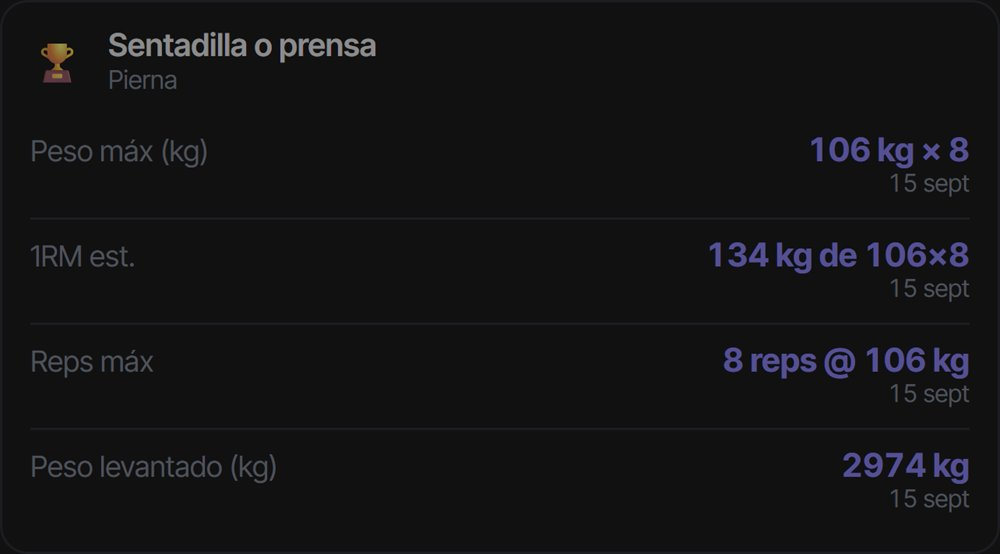
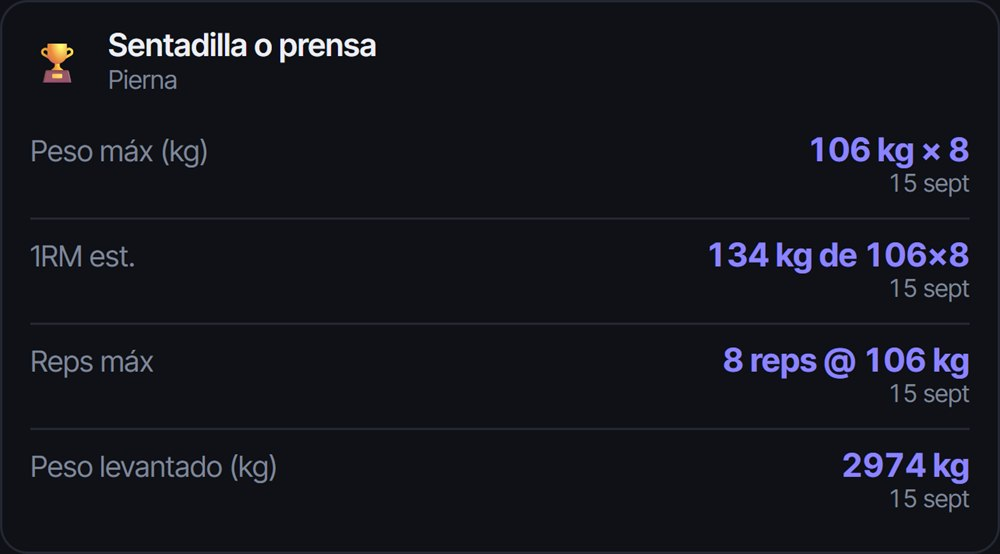
Presentación: pasos apilados que entran desde la derecha, y capturas sin velo · v2.25.0 (build-153)
Las capturas salían apagadas TODAS porque el guion de captura borraba el
diálogo (.modal) pero dejaba puesto el velo (.modal-overlay), que es un
rgba(20,18,14,.45) sobre toda la pantalla. Se quitaba el modal y quedaba la
sombra. Regeneradas sin él.

El efecto horizontal se rehace copiando el apilado de renterus.com: tarjetas
hermanas con position:sticky y top escalonado, que no absorben scroll. La
diferencia es que la que llega entra desde la derecha en vez de desde abajo.
Entra en la primera mitad del tramo y reposa en la segunda, para que dé
tiempo a leerla entera antes de que la siguiente la tape.

diff --git a/index.html b/index.html
@@ -161,30 +161,19 @@
   html.has-profile #appShell { display: block; }
   html.has-profile #landing { display: none; }
 
-  /* Entrada de la presentación al ir bajando. El estado oculto se aplica ya en el
-     primer pintado (por eso está aquí y no en styles.css) para que no haya parpadeo.
-     El movimiento es LATERAL: texto e imagen entran por lados opuestos y se paran
-     enteros. Nada queda cortado y no hay nada que deslizar a mano. */
+  /* Entrada de los bloques normales al ir bajando. El estado oculto se aplica ya en
+     el primer pintado (por eso está aquí y no en styles.css) para que no parpadee.
+     Las tarjetas apiladas NO usan esto: las mueve el apilado (initStack en app.js). */
   html.js-reveal #landing .ld-sec,
-  html.js-reveal #landing .ld-step,
   html.js-reveal #landing .ld-band,
   html.js-reveal #landing .ld-final { opacity: 0; transition: opacity .5s ease; }
   html.js-reveal #landing .in { opacity: 1; }
 
-  html.js-reveal #landing .ld-step .ld-step-copy,
-  html.js-reveal #landing .ld-step .ld-ui,
   html.js-reveal #landing .ld-band .ld-bcard,
   html.js-reveal #landing .ld-band .ld-chips span {
     transform: translateX(-46px);
-    transition: transform .7s cubic-bezier(.22,.61,.36,1), opacity .5s ease;
+    transition: transform .7s cubic-bezier(.22,.61,.36,1);
   }
-  html.js-reveal #landing .ld-step .ld-ui { transform: translateX(46px); }
-  html.js-reveal #landing .ld-step.rev .ld-step-copy { transform: translateX(46px); }
-  html.js-reveal #landing .ld-step.rev .ld-ui { transform: translateX(-46px); }
-  /* OJO: esto tiene que pesar al menos tanto como las reglas de .rev de arriba,
-     o los bloques invertidos se quedarían desplazados para siempre. */
-  html.js-reveal #landing .ld-step.in .ld-step-copy,
-  html.js-reveal #landing .ld-step.in .ld-ui,
   html.js-reveal #landing .ld-band.in .ld-bcard,
   html.js-reveal #landing .ld-band.in .ld-chips span { transform: none; }
   /* Escalonado: entran una detrás de otra, no todas de golpe. */
@@ -819,51 +808,44 @@
     </div>
   </section>
 
-  <!-- Cuatro bloques con un trozo real de la app, alternando lado en pantalla ancha.
-       Se leen porque son recortes ampliados, no pantallas enteras en miniatura. -->
-  <section class="ld-step">
-    <div class="ld-step-copy">
-      <span class="ld-num">01</span>
-      <h2>Tu semana, de un vistazo</h2>
-      <p>Abres la app y ves qué toca: el grupo del día, si va fuerte o ligero y cuánto vas a tardar. Cero decisiones antes de empezar.</p>
-    </div>
-    <figure class="ld-ui">
-      <img data-par="22" src="ui-semana.jpg" width="1000" height="928" loading="lazy" decoding="async" alt="Tres días del plan en Traindía: lunes de empuje, martes de pierna y miércoles de tirón, con su intensidad y duración">
-    </figure>
-  </section>
-
-  <section class="ld-step rev">
-    <div class="ld-step-copy">
-      <span class="ld-num">02</span>
-      <h2>Apuntar sin cortar el ritmo</h2>
-      <p>Serie hecha, un toque. Y encima de cada ejercicio, lo que levantaste la última vez: ya sabes a qué aspiras sin pararte a pensar.</p>
-    </div>
-    <figure class="ld-ui">
-      <img data-par="22" src="ui-entreno.jpg" width="1000" height="1030" loading="lazy" decoding="async" alt="Entreno en marcha: cronómetro a 31:33 y el press banca con sus cuatro series marcadas y el registro de la última vez">
-    </figure>
-  </section>
-
-  <section class="ld-step">
-    <div class="ld-step-copy">
-      <span class="ld-num">03</span>
-      <h2>La gráfica no discute</h2>
-      <p>Tu racha de semanas, los entrenos que llevas y cómo se mueve tu peso corporal. Cuando dudes de si avanzas, míralo.</p>
-    </div>
-    <figure class="ld-ui">
-      <img data-par="22" src="ui-progreso.jpg" width="1000" height="1028" loading="lazy" decoding="async" alt="Progreso en Traindía: 12 semanas de racha, 53 entrenos y la gráfica del peso corporal bajando">
-    </figure>
-  </section>
-
-  <section class="ld-step rev">
-    <div class="ld-step-copy">
-      <span class="ld-num">04</span>
-      <h2>Cada récord, con su fecha</h2>
-      <p>Peso máximo, 1RM estimado, repeticiones y kilos totales levantados. Un ejercicio no es una sola cifra, y aquí no lo es.</p>
-    </div>
-    <figure class="ld-ui">
-      <img data-par="22" src="ui-records.jpg" width="1000" height="554" loading="lazy" decoding="async" alt="Récords de la sentadilla en Traindía: 106 kg por 8 repeticiones, 134 kg de 1RM estimado y 2974 kg levantados">
-    </figure>
-  </section>
+  <!-- Pasos apilados: cada tarjeta se ancla con position:sticky y la siguiente
+       entra DESDE LA DERECHA y se le monta encima. Nada se traga el scroll: la
+       página avanza a su ritmo (igual que el apilado vertical de renterus.com,
+       pero girado). Sin JS quedan apiladas en vertical, que también se entiende. -->
+  <div class="ld-stack">
+    <article class="ld-card">
+      <div class="ld-card-copy">
+        <span class="ld-num">01</span>
+        <h2>Tu semana, de un vistazo</h2>
+        <p>Abres la app y ves qué toca: el grupo del día, si va fuerte o ligero y cuánto vas a tardar. Cero decisiones antes de empezar.</p>
+      </div>
+      <figure class="ld-ui"><img src="ui-semana.jpg" width="1000" height="928" loading="lazy" decoding="async" alt="Tres días del plan en Traindía: lunes de empuje, martes de pierna y miércoles de tirón, con su intensidad y duración"></figure>
+    </article>
+    <article class="ld-card">
+      <div class="ld-card-copy">
+        <span class="ld-num">02</span>
+        <h2>Apuntar sin cortar el ritmo</h2>
+        <p>Serie hecha, un toque. Y encima de cada ejercicio, lo que levantaste la última vez: ya sabes a qué aspiras sin pararte a pensar.</p>
+      </div>
+      <figure class="ld-ui"><img src="ui-entreno.jpg" width="1000" height="1030" loading="lazy" decoding="async" alt="Entreno en marcha: cronómetro a 31:34 y el press banca con sus series y el registro de la última vez"></figure>
+    </article>
+    <article class="ld-card">
+      <div class="ld-card-copy">
+        <span class="ld-num">03</span>
+        <h2>La gráfica no discute</h2>
+        <p>Tu racha de semanas, los entrenos que llevas y cómo se mueve tu peso corporal. Cuando dudes de si avanzas, míralo.</p>
+      </div>
+      <figure class="ld-ui"><img src="ui-progreso.jpg" width="1000" height="1028" loading="lazy" decoding="async" alt="Progreso en Traindía: 12 semanas de racha, 53 entrenos y la gráfica del peso corporal bajando"></figure>
+    </article>
+    <article class="ld-card">
+      <div class="ld-card-copy">
+        <span class="ld-num">04</span>
+        <h2>Cada récord, con su fecha</h2>
+        <p>Peso máximo, 1RM estimado, repeticiones y kilos totales levantados. Un ejercicio no es una sola cifra, y aquí no lo es.</p>
+      </div>
+      <figure class="ld-ui"><img src="ui-records.jpg" width="1000" height="554" loading="lazy" decoding="async" alt="Récords de la sentadilla en Traindía: 106 kg por 8 repeticiones, 134 kg de 1RM estimado y 2974 kg levantados"></figure>
+    </article>
+  </div>
 
   <section class="ld-band">
     <h2>Y además</h2>

diff --git a/app.js b/app.js
@@ -408,6 +408,7 @@ const app = {
       this.renderOnboarding();
     }));
     this.initScrollFx();
+    this.initStack();
     this.revealLanding();
   },
 
@@ -447,11 +448,56 @@ const app = {
     pintar();
   },
 
+  // Pasos apilados. Cada tarjeta se ancla sola con position:sticky (eso lo hace el
+  // CSS y ya funciona sin JS, apilándose en vertical). Lo único que añade esto es
+  // que la que va llegando entre DESDE LA DERECHA en vez de desde abajo: se la
+  // sujeta a su altura de anclaje y se la trae de fuera hacia dentro.
+  // Importante: no se retiene el scroll en ningún momento. La página baja a su
+  // ritmo y el movimiento lateral es lo que ocurre mientras tanto.
+  initStack() {
+    const pila = document.querySelector('#landing .ld-stack');
+    if (!pila) return;
+    const reduce = window.matchMedia && matchMedia('(prefers-reduced-motion: reduce)').matches;
+    if (reduce) return; // apilado vertical a secas: ya se entiende igual
+    const cartas = [...pila.querySelectorAll('.ld-card')];
+    if (!cartas.length) return;
+
+    let anclajes = [];
+    const medir = () => { anclajes = cartas.map(c => parseFloat(getComputedStyle(c).top) || 0); };
+
+    const pintar = () => {
+      const arriba = pila.getBoundingClientRect().top;
+      cartas.forEach((c, i) => {
+        const suyo = arriba + c.offsetTop;      // dónde estaría sin anclar
+        const falta = suyo - anclajes[i];       // >0 mientras viene de camino
+        if (falta <= 0) { c.style.transform = ''; return; } // ya anclada: manda el CSS
+        const rango = Math.min(innerHeight * 0.8, c.offsetHeight) || 1;
+        const bruto = 1 - Math.min(1, falta / rango); // 0 lejos, 1 pegada
+        // Entra en la primera mitad del tramo y el resto se queda quieta: si no,
+        // la siguiente empieza a taparla antes de que dé tiempo a leer esta.
+        const t = Math.min(1, bruto / 0.5);
+        const cerca = t * t * (3 - 2 * t); // arranca y frena suave
+        // Se sube a la altura de anclaje (-falta) y se trae desde la derecha.
+        c.style.transform = `translate3d(${((1 - cerca) * 104).toFixed(2)}%, ${-falta.toFixed(1)}px, 0)`;
+      });
+    };
+
+    let pedido = false;
+    const alMover = () => {
+      if (pedido) return;
+      pedido = true;
+      requestAnimationFrame(() => { pedido = false; pintar(); });
+    };
+    medir(); pintar();
+    window.addEventListener('scroll', alMover, { passive: true });
+    window.addEventListener('resize', () => { medir(); alMover(); });
+  },
+
   // Va mostrando cada bloque al entrar en pantalla. El estado oculto lo pone el CSS
   // (clase .js-reveal del <html>), así que aquí solo hay que marcar lo que ya se ve.
   revealLanding() {
     if (!document.documentElement.classList.contains('js-reveal')) return;
-    const els = document.querySelectorAll('#landing .ld-sec, #landing .ld-step, #landing .ld-band, #landing .ld-final');
+    const els = document.querySelectorAll('#landing .ld-sec, #landing .ld-band, #landing .ld-final');
     if (!els.length) { document.documentElement.classList.remove('js-reveal'); return; }
     let alguno = false;
     const io = new IntersectionObserver((entries) => {
@@ -539,7 +585,7 @@ const app = {
                 tipo: d.tipo,
                 mensaje: d.mensaje.trim(),
                 contacto: (d.contacto || '').trim() || '(no indicado)',
-                version: 'v2.24.0',
+                version: 'v2.25.0',
                 perfil: (this.mainUser && this.mainUser.name) || '',
                 navegador: navigator.userAgent,
               }),
@@ -574,7 +620,7 @@ const app = {
     return `<div class="section">
       ${rows.map(r => `<button class="big-row" ${r.modal ? 'data-share' : `data-link="${r.v}"`}><span class="big-row-icon tile" style="background:${r.color}">${UI.icon(r.icon, 20)}</span><span class="big-row-text"><strong>${r.label}</strong><span class="dim">${r.sub}</span></span><span class="chev">›</span></button>`).join('')}
       <button class="big-row" data-feedback><span class="big-row-icon tile" style="background:var(--strong)">${UI.icon('chat', 20)}</span><span class="big-row-text"><strong>Sugerencias y reportes</strong><span class="dim">Envíame ideas o fallos</span></span><span class="chev">›</span></button>
-      <p class="version-foot">Traindía · v2.24.0 · ${Object.keys(this.usersById).length} perfil(es)<br>© 2026 Raúl Márquez · <a class="foot-link" href="${this.REPO_URL}" target="_blank" rel="noopener">Ver en GitHub ↗</a></p>
+      <p class="version-foot">Traindía · v2.25.0 · ${Object.keys(this.usersById).length} perfil(es)<br>© 2026 Raúl Márquez · <a class="foot-link" href="${this.REPO_URL}" target="_blank" rel="noopener">Ver en GitHub ↗</a></p>
     </div>`;
   },
   bindMore(root) {
@@ -854,7 +900,7 @@ const app = {
         <button class="btn danger block" id="resetApp">Borrar todos los datos</button>
         <p class="field-hint">Restablece la app al estado inicial (se borran todos los perfiles, sesiones y progreso).</p>
       </div>
-      <p class="version-foot">Traindía · v2.24.0</p>
+      <p class="version-foot">Traindía · v2.25.0</p>
     </div>`;
   },
 

diff --git a/styles.css b/styles.css
@@ -685,22 +685,34 @@ body.modal-open { overflow: hidden; }
 .ld-sec h2 { font-size: 22px; font-weight: 800; letter-spacing: -0.02em; margin-bottom: 12px; color: var(--ink); }
 .ld-sec > p { font-size: 15px; line-height: 1.6; color: var(--ink-soft); }
 
-/* ---- Bloques con un trozo real de la app ----
-   Sin anclajes ni scroll horizontal: el scroll vertical nunca se frena. El
-   movimiento lo pone el paralaje (ver initParallax en app.js), que es puro
-   transform y no toca el flujo de la página. */
-.ld-step { padding: 34px 0; border-top: 1px solid var(--line-soft); }
+/* ---- Pasos apilados ----
+   Mismo truco que el apilado de tarjetas de renterus.com: hermanas con
+   position:sticky que se van quedando quietas una encima de otra. El scroll
+   NUNCA se absorbe, por eso va suave. La diferencia es que aquí la que llega
+   entra desde la derecha (lo hace initStack en app.js moviendo la X).
+   Sin JS se apilan en vertical, que es el efecto de origen y también funciona. */
+.ld-stack { position: relative; padding: 18px 0 18svh; }
+.ld-card {
+  position: sticky; top: var(--pila, 76px);
+  background: var(--bg-2); border: 1px solid var(--line); border-radius: 20px;
+  padding: 22px 18px; margin-bottom: 20px;
+  box-shadow: 0 18px 50px rgba(15, 17, 22, .18);
+  display: flex; flex-direction: column; gap: 16px;
+}
+/* Cada una un pelín más abajo: así se ve el canto de las de debajo, como una baraja. */
+.ld-card:nth-child(2) { --pila: 88px; }
+.ld-card:nth-child(3) { --pila: 100px; }
+.ld-card:nth-child(4) { --pila: 112px; }
 .ld-num {
   font-family: 'IBM Plex Mono', monospace; font-size: 11px;
   letter-spacing: 0.18em; color: var(--strong);
 }
-.ld-step h2 { font-size: 25px; font-weight: 800; letter-spacing: -0.02em; color: var(--ink); margin: 8px 0 10px; }
-.ld-step p { font-size: 15.5px; line-height: 1.6; color: var(--ink-soft); max-width: 34em; }
-.ld-ui { margin-top: 20px; will-change: transform; }
+.ld-card h2 { font-size: 24px; font-weight: 800; letter-spacing: -0.02em; color: var(--ink); margin: 8px 0 8px; }
+.ld-card p { font-size: 15px; line-height: 1.55; color: var(--ink-soft); }
+.ld-ui { margin: 0; min-width: 0; }
 .ld-ui img {
-  width: 100%; height: auto; display: block; border-radius: 16px;
-  border: 1px solid var(--line); background: #0f1116;
-  box-shadow: 0 18px 44px rgba(15, 17, 22, .16);
+  width: 100%; height: auto; display: block; border-radius: 14px;
+  border: 1px solid var(--line); max-height: 42svh; object-fit: cover; object-position: top;
 }
 
 /* ---- Bandas que se desplazan de lado ----
@@ -747,11 +759,13 @@ body.modal-open { overflow: hidden; }
   .ld-sec > h2 { font-size: 28px; }
   /* Con sitio de sobra, texto e imagen van uno al lado del otro, alternando
      el lado en cada bloque para que la vista no caiga siempre en la misma columna. */
-  .ld-step { display: grid; grid-template-columns: 1fr 1.15fr; gap: 48px; align-items: center; padding: 54px 0; }
-  .ld-step.rev .ld-step-copy { order: 2; }
-  .ld-step h2 { font-size: 31px; }
-  .ld-step p { font-size: 16.5px; }
-  .ld-ui { margin-top: 0; }
+  /* Con sitio de sobra, texto e imagen van uno al lado del otro dentro de la tarjeta. */
+  .ld-card { flex-direction: row; align-items: center; gap: 40px; padding: 32px; }
+  .ld-card-copy { flex: 0 1 420px; }
+  .ld-ui { flex: 1 1 0; }
+  .ld-ui img { max-height: 54svh; }
+  .ld-card h2 { font-size: 30px; }
+  .ld-card p { font-size: 16.5px; }
   .ld-band h2 { font-size: 28px; }
 }
 

diff --git a/sw.js b/sw.js
@@ -1,10 +1,10 @@
 // Service Worker - Traindía
-// La versión visible de la app es v2.24.0 (ver pie en la app).
+// La versión visible de la app es v2.25.0 (ver pie en la app).
 // CACHE_NAME es solo la clave de caché: súbele el número de build en cada deploy
 // (build-6, build-7, …) para que los cambios lleguen a las apps ya instaladas.
 // Los fetch usan {cache:'reload'} para saltarse la caché HTTP del navegador/Pages
 // y traer SIEMPRE la última versión con red (offline tira de CACHE_NAME).
-const CACHE_NAME = 'traindia-build-152';
+const CACHE_NAME = 'traindia-build-153';
 // Buzón temporal para archivos que llegan por "Compartir" desde otra app
 // (WhatsApp, Archivos…). No se borra al activar: lo lee y vacía la app.
 const SHARE_CACHE = 'traindia-share-inbox';
